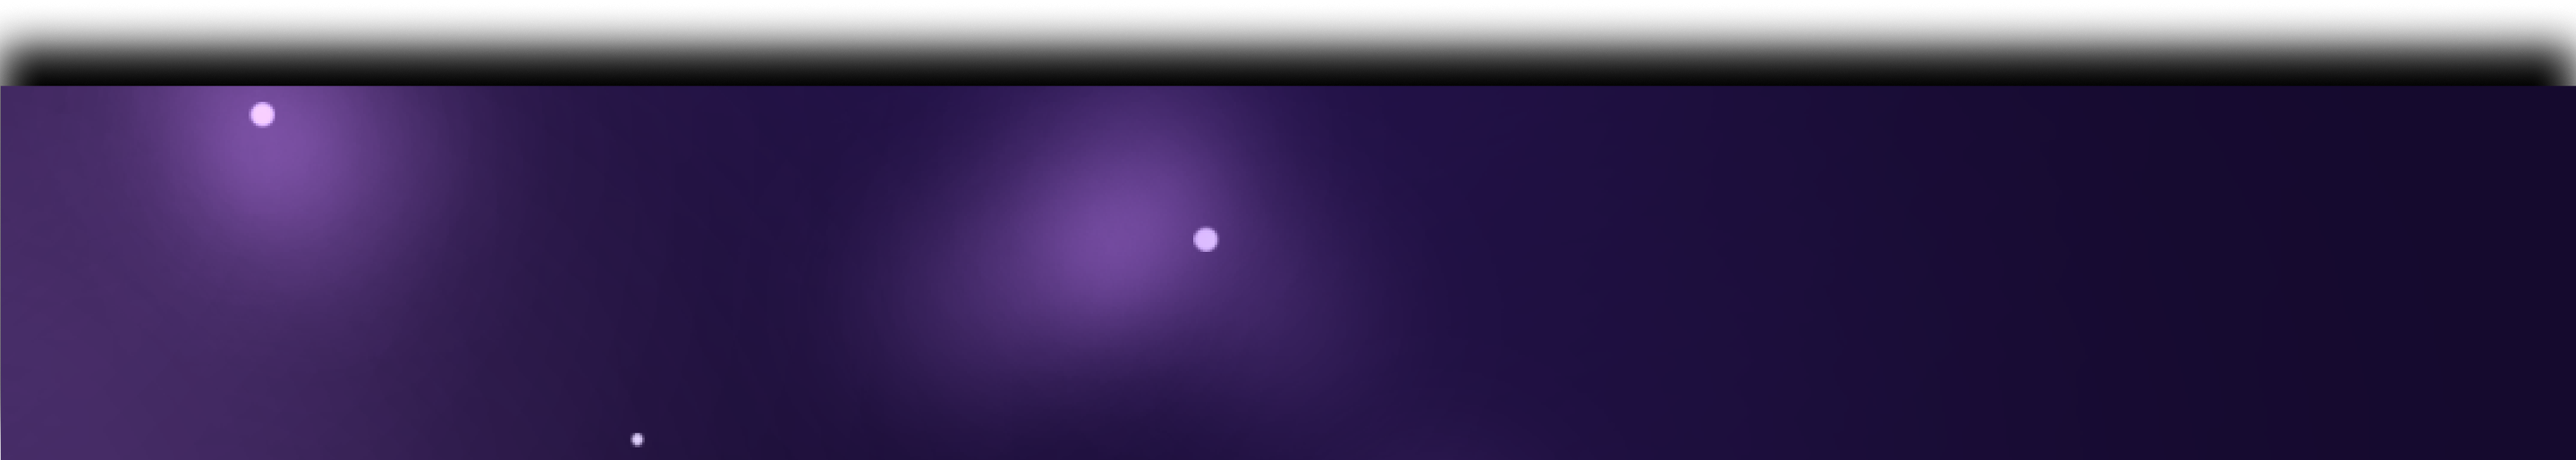
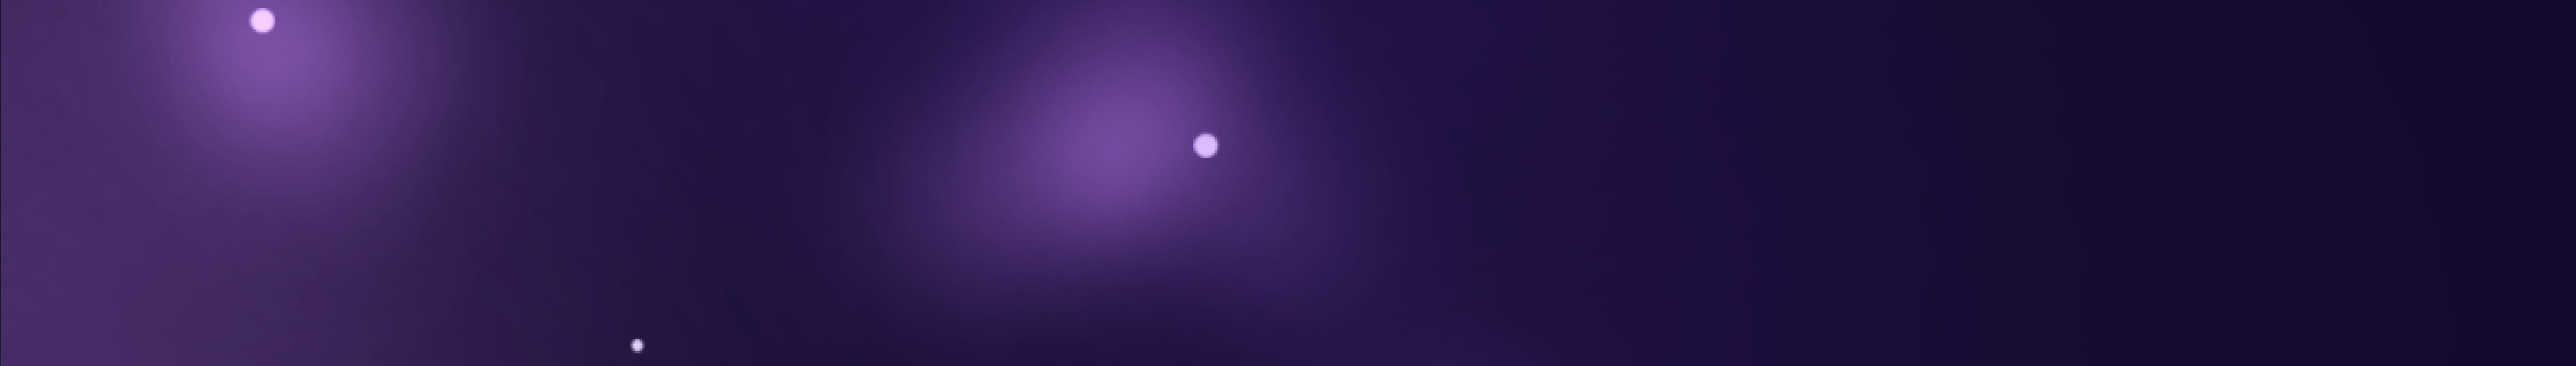
fix: make the footer a solid rectangle and separate it from page content
The background asset was never fully opaque. Its alpha ramped from 0 at the
top edge but plateaued at 161/255 and stayed there to the bottom, so the whole
footer blended with whatever sat behind it rather than showing its own
colours. That is why it read washed out against the mockup, and why the page
background mattered so much — a white <body> produced a bright band, and a
dark one tinted the entire footer.

Crop 105px off the top, past the fade ramp, and flatten the remainder onto
#0D1027 — the colour it was already compositing over, so the intended look is
preserved. The asset is now RGB rather than RGBA, 2880x410, and 104 KB.

With the fade gone the footer needs an explicit gap above it, so add
mt-16 md:mt-24 to the element. That lives on the footer rather than on the
landing page's About Us section, so every page gets it. Also add a background
colour, which is only safe now that nothing can show through.

diff --git a/src/components/Footer.tsx b/src/components/Footer.tsx
@@ -60,15 +60,18 @@ function SocialRow({ className }: { className?: string }) {
   );
 }
 
+// mt-* on the <footer> separates it from page content. That gap used to come
+// from the background's alpha fade; now that the asset is a hard-edged opaque
+// rectangle it has to be explicit. Applies to every page.
 export default function Footer() {
   return (
-    <footer className="relative isolate w-full overflow-hidden text-white">
+    <footer className="relative isolate mt-16 w-full overflow-hidden bg-[#1a0f33] text-white md:mt-24">
       {/*
-        Decorative background (2880x515, matches this band's 5.59 aspect).
-        The top ~20% of the asset is an alpha fade to transparent so the footer
-        blends into the page above — so deliberately NO background colour and no
-        overlay here, either of which would fill that fade and square off the
-        top edge.
+        Solid background rectangle, identical at every breakpoint. The asset was
+        cropped past its alpha fade and flattened onto #0D1027, so it is fully
+        opaque — nothing behind the footer can show through, and the top edge is
+        a clean horizontal line. bg colour above is a fallback for the sliver
+        before the image loads.
       */}
       <Image
         src="/Footer_Background.png"
